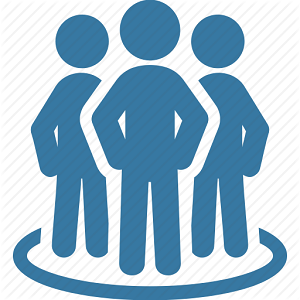
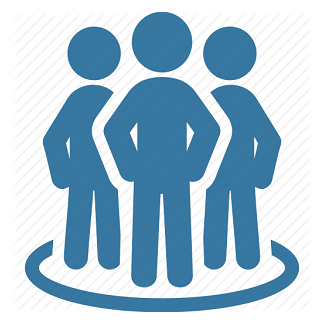
Request changes

diff --git a/src/views/team/CreateTeamView.jsx b/src/views/team/CreateTeamView.jsx
@@ -33,48 +33,25 @@ class CreateTeamView extends Component {
 
   render() {
     return (
-      <div class="container contact-form" style={{ backgroundColor: '#fbfbfb', border: '1px solid #eeeeee', borderRadius: '30px' }}>
-        <div class="contact-image">
-          <img src={logo} alt="rocket_contact" style={{ borderRadius: '50%', overflow: 'hidden', width: '200px', height: '200px' }} />
+      <div className="container contact-form" style={{ backgroundColor: '#fbfbfb', border: '1px solid #eeeeee', borderRadius: '30px' }}>
+        <div className="contact-image">
+          <img src={logo} alt="rocket_contact" style={{ borderRadius: '50%', overflow: 'hidden', width: '150px', height: '150px' }} />
         </div>
         <form method="post" onSubmit={this.handleSubmit}>
           <h3>Create team</h3>
-          <div class="row">
-            <div class="col-md-12">
-              <div class="form-group">
-                <input type="text" name="txtName" class="form-control" placeholder="Team name *" onChange={this.handleNameChange} />
+          <div className="row">
+            <div className="col-md-12">
+              <div className="form-group">
+                <input type="text" name="txtName" className="form-control" placeholder="Team name *" onChange={this.handleNameChange} />
               </div>
-              <div class="form-group">
-                <input type="submit" name="btnSubmit" class="btnContact" value="Create" onClick={this.submitTeam} />
+              <div className="form-group">
+                <input type="submit" name="btnSubmit" className="btnContact" value="Create" onClick={this.submitTeam} />
               </div>
             </div>
 
           </div>
         </form>
       </div>
-
-      // <div>
-      //   <Form>
-      //     <Col md="2">
-      //       <Row style={{ marginLeft: "0px" }}>
-      //         <h6>Enter team name:</h6>
-      //         <FormControl
-      //           class="mr-sm-2"
-      //           type="text"
-      //           placeholder="Team name"
-      //           onChange={this.handleNameChange}
-      //         />
-      //       </Row>
-      //       <Button
-      //         onClick={this.submitTeam}
-      //         style={{ marginTop: "10px" }}
-      //         class="btn btn-primary"
-      //       >
-      //         Submit
-      //       </Button>
-      //     </Col>
-      //   </Form>
-      // </div>
     );
   }
 }
